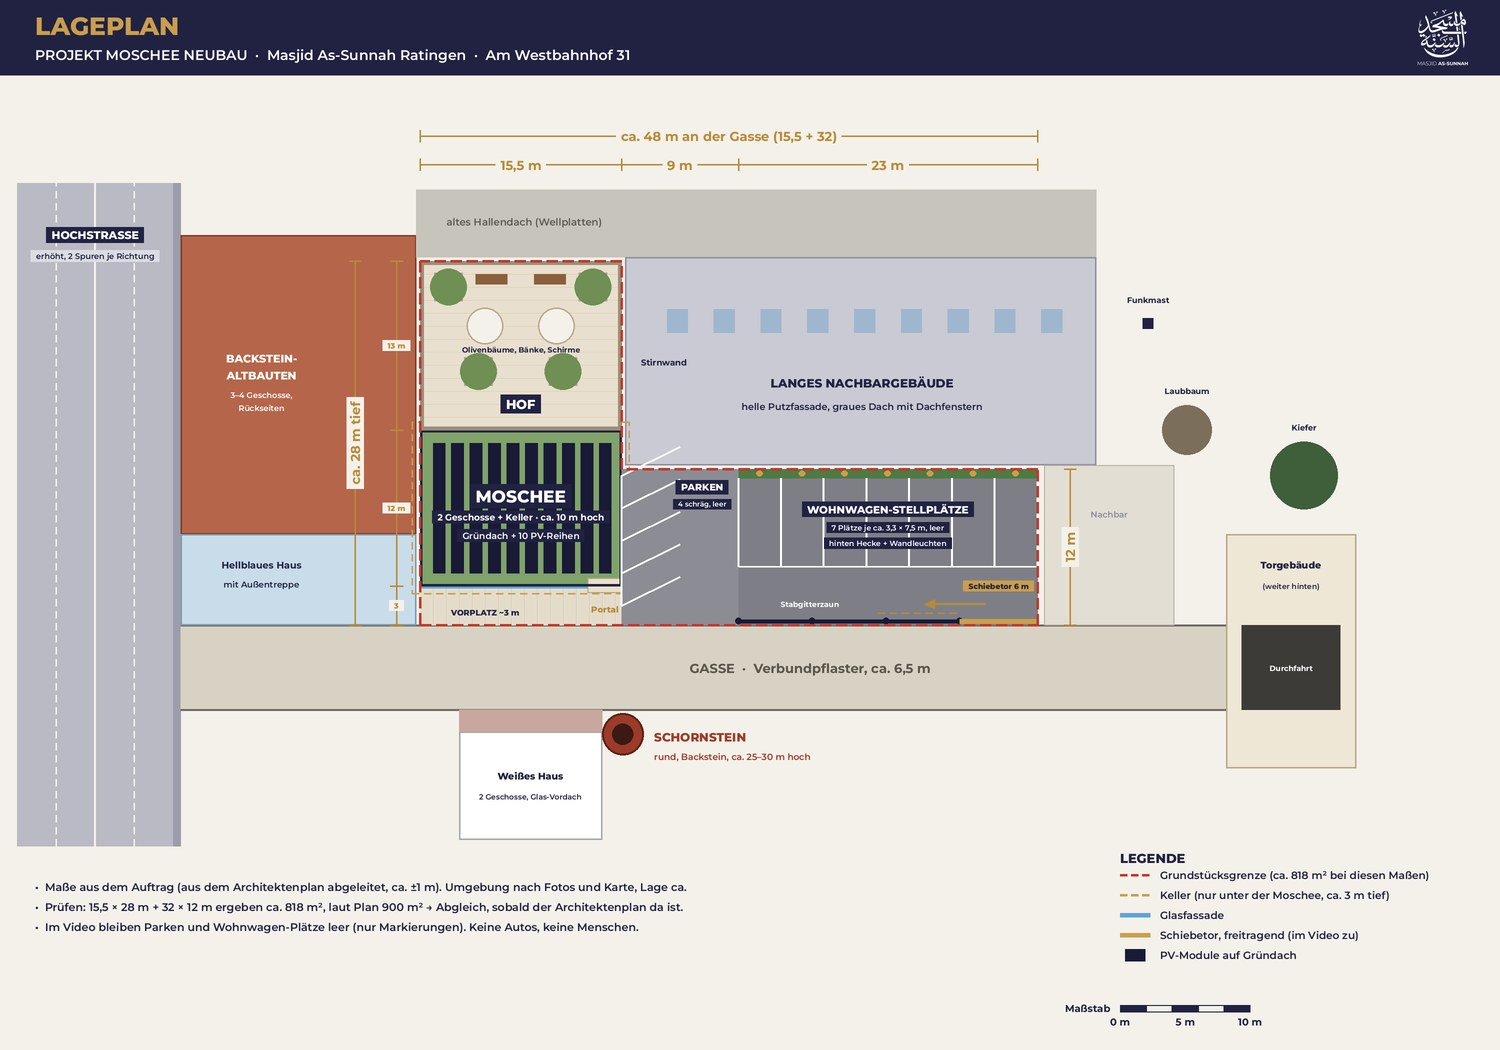
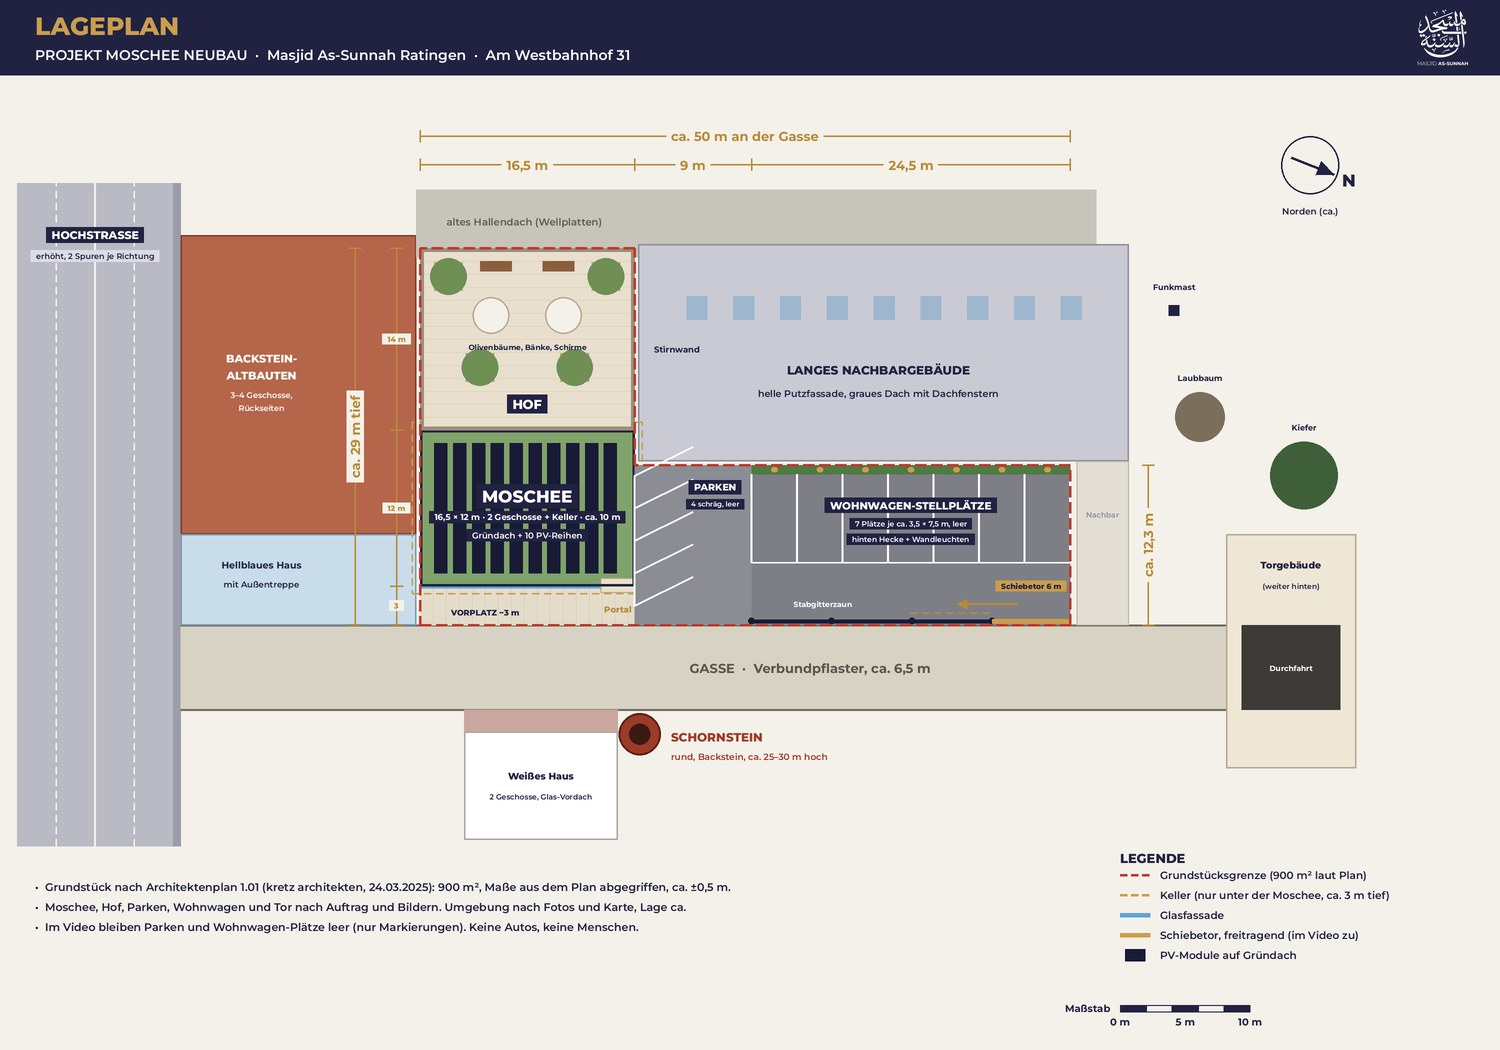
Neubau-Video: Lageplan nach Architektenplan (900 m², ca. 50 m), Nordpfeil
Claude-Session: https://claude.ai/code/session_01Y7mABu5w37GuCDDEdSAsrV

diff --git a/neubau-video/tools/lageplan.py b/neubau-video/tools/lageplan.py
@@ -2,7 +2,7 @@
 """Phase 1: Lageplan von oben mit Maßen und Beschriftung → out/phase1/lageplan.png (3000 × 2100).
 
 Koordinaten in Metern: x nach rechts entlang der Gasse (0 = linke Grundstücksecke an den Altbauten),
-y nach hinten (0 = Grundstücksgrenze an der Gasse). Maße aus AUFTRAG.md (ca. ±1 m), Umgebung nach Fotos/Karte (ca.).
+y nach hinten (0 = Grundstücksgrenze an der Gasse). Grundstück nach Architektenplan 1.01 (900 m²), Umgebung nach Fotos/Karte (ca.).
     python3 tools/lageplan.py
 """
 import math
@@ -106,117 +106,136 @@ text(-12.2, 4.6, 'Hellblaues Haus', 19, 700, NAVY); text(-12.2, 3.1, 'mit Außen
 # Hinten: Backsteinmauer mit Betonpfeilern, dahinter altes Hallendach
 rect(-0.3, 28.3, 52, 33.5, fill='#C7C4BB')
 text(8, 31, 'altes Hallendach (Wellplatten)', 20, 600, '#5E5B53')
-# Langes Nachbargebäude (rechts / hinter dem langen Teil)
-rect(15.8, 12.3, 52, 28.3, fill='#C9CAD3', outline='#8E8FA0', width=3)
+# Maße nach Architektenplan 1.01 (Konzept Ersatzbau, 24.03.2025), aus dem Plan-Foto abgegriffen (ca. ±0,5 m):
+# Grundstück 900 m², Länge an der Gasse ca. 50 m; tiefer Teil 16,5 × 29 m, langer Teil 33,5 × 12,3 m (16,5·29 + 33,5·12,3 ≈ 891 m²).
+L, BT, TT, LT = 50.0, 16.5, 29.0, 12.3     # Länge, Breite tiefer Teil, Tiefe tiefer Teil, Tiefe langer Teil
+VOR, MT = 3.0, 12.0                         # Vorplatz, Moschee-Tiefe → Hof = TT − VOR − MT = 14 m
+HOF0 = VOR + MT
+PK = BT + 9.0                               # Ende Parkfläche
+TOR = L - 6.0                               # Beginn Schiebetor
+# Langes Nachbargebäude (hinter dem langen Teil, Stirnwand zum Hof)
+rect(BT + 0.3, LT + 0.3, L + 4.5, TT + 0.3, fill='#C9CAD3', outline='#8E8FA0', width=3)
 for i in range(9):
-    rect(19 + i * 3.6, 22.5, 20.6 + i * 3.6, 24.3, fill='#9FB6CF')
-text(34, 18.6, 'LANGES NACHBARGEBÄUDE', 24, 800, NAVY)
-text(34, 16.8, 'helle Putzfassade, graues Dach mit Dachfenstern', 19, 600, NAVY)
-text(17, 20.2, 'Stirnwand', 17, 700, NAVY, anchor='lm')
+    rect(BT + 4 + i * 3.6, 23.5, BT + 5.6 + i * 3.6, 25.3, fill='#9FB6CF')
+text((BT + L) / 2 + 2, 19.6, 'LANGES NACHBARGEBÄUDE', 24, 800, NAVY)
+text((BT + L) / 2 + 2, 17.8, 'helle Putzfassade, graues Dach mit Dachfenstern', 19, 600, NAVY)
+text(BT + 1.5, 21.2, 'Stirnwand', 17, 700, NAVY, anchor='lm')
 # Rechts daneben
-rect(48, 0, 58, 12.3, fill='#E3DED3', outline='#B9B2A3', width=2)
-text(53, 8.5, 'Nachbar', 17, 600, GRAU)
-# Gegenüber: weißes Haus + Schornstein
-rect(3, -16.5, 14, -8.2, fill='#FFFFFF', outline='#A7A7A7', width=3)
-rect(3, -8.2, 14, -6.5, fill='#C9A79E')
-text(8.5, -11.6, 'Weißes Haus', 19, 800, NAVY); text(8.5, -13.2, '2 Geschosse, Glas-Vordach', 15, 600, NAVY)
-cx, cy, r = 15.6, -8.4, 1.6
+rect(L + 0.5, 0, L + 4.5, LT + 0.3, fill='#E3DED3', outline='#B9B2A3', width=2)
+text(L + 2.5, 8.5, 'Nachbar', 15, 600, GRAU)
+# Gegenüber: weißes Haus + Schornstein (gegenüber dem Portal)
+cx, cy, r = BT + 0.4, -8.4, 1.6
+rect(cx - 13.5, -16.5, cx - 1.7, -8.2, fill='#FFFFFF', outline='#A7A7A7', width=3)
+rect(cx - 13.5, -8.2, cx - 1.7, -6.5, fill='#C9A79E')
+text(cx - 7.6, -11.6, 'Weißes Haus', 19, 800, NAVY); text(cx - 7.6, -13.2, '2 Geschosse, Glas-Vordach', 15, 600, NAVY)
 d.ellipse([P(cx - r, cy + r), P(cx + r, cy - r)], fill='#9C3B2A', outline='#5E2015', width=4)
 d.ellipse([P(cx - 0.8, cy + 0.8), P(cx + 0.8, cy - 0.8)], fill='#3A1A12')
 text(cx + 2.4, -8.6, 'SCHORNSTEIN', 24, 800, '#9C3B2A', anchor='lm')
 text(cx + 2.4, -10.1, 'rund, Backstein, ca. 25–30 m hoch', 18, 600, '#9C3B2A', anchor='lm')
-# Torgebäude am Ende der Gasse
+# Torgebäude am Ende der Gasse (weiter hinten)
 rect(62, -11, 72, 7, fill='#EFE7D6', outline='#B7A98C', width=3)
 rect(63.2, -6.5, 70.8, 0, fill='#3D3B38')
 text(67, 4.6, 'Torgebäude', 19, 800, NAVY); text(67, 3.0, '(weiter hinten)', 15, 600, NAVY)
 text(67, -3.3, 'Durchfahrt', 15, 700, '#FFFFFF')
-for (tx, ty, tr, col) in ((68, 11.5, 2.6, '#3F5E3A'), (59, 15, 1.9, '#7B6E5B')):
+for (tx, ty, tr, col) in ((68, 11.5, 2.6, '#3F5E3A'), (60, 16, 1.9, '#7B6E5B')):
     d.ellipse([P(tx - tr, ty + tr), P(tx + tr, ty - tr)], fill=col)
-text(68, 15.2, 'Kiefer', 16, 700, NAVY); text(59, 18, 'Laubbaum', 16, 700, NAVY)
-d.rectangle([P(55.6, 23.6), P(56.4, 22.8)], fill=NAVY); text(56, 25, 'Funkmast', 16, 700, NAVY)
+text(68, 15.2, 'Kiefer', 16, 700, NAVY); text(60, 19, 'Laubbaum', 16, 700, NAVY)
+d.rectangle([P(57.6, 24.6), P(58.4, 23.8)], fill=NAVY); text(58, 26, 'Funkmast', 16, 700, NAVY)
 
 # ------------------------------------------------------------------ Grundstück
-GR = [(0, 0), (47.5, 0), (47.5, 12), (15.5, 12), (15.5, 28), (0, 28)]
+GR = [(0, 0), (L, 0), (L, LT), (BT, LT), (BT, TT), (0, TT)]
 # Vorplatz
-rect(0, 0, 15.5, 3, fill='#E4DCCB')
-for i in range(1, 16):
-    d.line([P(i, 0), P(i, 3)], fill='#D2C8B4', width=1)
+rect(0, 0, BT, VOR, fill='#E4DCCB')
+for i in range(1, int(BT) + 1):
+    d.line([P(i, 0), P(i, VOR)], fill='#D2C8B4', width=1)
 text(5.0, 0.95, 'VORPLATZ ~3 m', 16, 800, NAVY)
-# Moschee (Dach: Gründach + PV)
-rect(0, 3, 15.5, 15, fill='#7FA36A')
+# Moschee (Dach: Gründach + PV, 10 Reihen von der Glasfront nach hinten)
+rect(0, VOR, BT, HOF0, fill='#7FA36A')
 for i in range(10):
-    x = 1.0 + i * 1.42
-    rect(x, 4.0, x + 0.95, 14.0, fill=NAVY_D)
-d.line([P(0, 3), P(15.5, 3)], fill='#5FA3D6', width=9)          # Glasfassade
-rect(12.9, 2.5, 15.5, 3.6, fill='#E9E0CC', outline='#B5A786', width=2)   # Portal
-rect(0, 3, 15.5, 15, outline=NAVY, width=5)
-lab = [(7.75, 9.9, 'MOSCHEE', 34, 800, '#FFFFFF'), (7.75, 8.3, '2 Geschosse + Keller · ca. 10 m hoch', 18, 700, '#FFFFFF'),
-       (7.75, 6.9, 'Gründach + 10 PV-Reihen', 18, 600, '#FFFFFF')]
+    x = 1.0 + i * (BT - 2.0) / 10 + 0.1
+    rect(x, VOR + 1.0, x + 1.0, HOF0 - 1.0, fill=NAVY_D)
+d.line([P(0, VOR), P(BT, VOR)], fill='#5FA3D6', width=9)                 # Glasfassade
+rect(BT - 2.6, VOR - 0.5, BT, VOR + 0.6, fill='#E9E0CC', outline='#B5A786', width=2)   # Portal
+rect(0, VOR, BT, HOF0, outline=NAVY, width=5)
+lab = [(BT / 2, 9.9, 'MOSCHEE', 34, 800, '#FFFFFF'), (BT / 2, 8.3, '16,5 × 12 m · 2 Geschosse + Keller · ca. 10 m', 17, 700, '#FFFFFF'),
+       (BT / 2, 6.9, 'Gründach + 10 PV-Reihen', 17, 600, '#FFFFFF')]
 for x, y, s, sz, w, c in lab:
     tw = d.textlength(s, font=f(w, sz))
     d.rectangle([P(x, y)[0] - tw / 2 - 10, P(x, y)[1] - sz * 0.7, P(x, y)[0] + tw / 2 + 10, P(x, y)[1] + sz * 0.7], fill=NAVY)
     text(x, y, s, sz, w, c)
-text(14.2, 1.2, 'Portal', 17, 800, GOLD_D)
+text(BT - 1.3, 1.2, 'Portal', 17, 800, GOLD_D)
 # Keller (gestrichelt, nur unter der Moschee)
-for a, b in (((-0.6, 2.4), (16.1, 2.4)), ((16.1, 2.4), (16.1, 15.6)), ((16.1, 15.6), (-0.6, 15.6)), ((-0.6, 15.6), (-0.6, 2.4))):
+k0, k1, k2, k3 = -0.6, BT + 0.6, VOR - 0.6, HOF0 + 0.6
+for a, b in (((k0, k2), (k1, k2)), ((k1, k2), (k1, k3)), ((k1, k3), (k0, k3)), ((k0, k3), (k0, k2))):
     gestrichelt(P(*a), P(*b), GOLD, 3)
 # Hof
-rect(0, 15, 15.5, 28, fill='#E8DFCE')
-for i in range(1, 13):
-    d.line([P(0, 15 + i), P(15.5, 15 + i)], fill='#D9CDB6', width=1)
-rect(0, 15, 15.5, 28, outline='#9A8F7A', width=8)
-for (tx, ty) in ((4.5, 19.5), (11, 19.5), (2.2, 26), (13.3, 26)):
+rect(0, HOF0, BT, TT, fill='#E8DFCE')
+for i in range(1, int(TT - HOF0)):
+    d.line([P(0, HOF0 + i), P(BT, HOF0 + i)], fill='#D9CDB6', width=1)
+rect(0, HOF0, BT, TT, outline='#9A8F7A', width=8)
+for (tx, ty) in ((4.6, 19.8), (BT - 4.6, 19.8), (2.2, TT - 2.2), (BT - 2.2, TT - 2.2)):
     rect(tx - 1.1, ty - 1.1, tx + 1.1, ty + 1.1, fill='#B9A98C'); d.ellipse([P(tx - 1.4, ty + 1.4), P(tx + 1.4, ty - 1.4)], fill='#6F8F55')
-for (bx, by) in ((5.5, 26.6), (10, 26.6)):
+for (bx, by) in ((BT / 2 - 2.4, TT - 1.4), (BT / 2 + 2.4, TT - 1.4)):
     rect(bx - 1.2, by - 0.4, bx + 1.2, by + 0.4, fill='#8B5E3C')
-for (sx, sy) in ((5, 23), (10.5, 23)):
+for (sx, sy) in ((BT / 2 - 2.8, 23.8), (BT / 2 + 2.8, 23.8)):
     d.ellipse([P(sx - 1.4, sy + 1.4), P(sx + 1.4, sy - 1.4)], fill='#F4F1EA', outline='#B9A98C', width=3)
-box(7.75, 17.0, 'HOF', 26, 800); text(7.75, 21.2, 'Olivenbäume, Bänke, Schirme', 15, 700, NAVY)
+box(BT / 2, 17.0, 'HOF', 26, 800); text(BT / 2, 21.4, 'Olivenbäume, Bänke, Schirme', 15, 700, NAVY)
 # Parken (4 schräge Plätze)
-rect(15.5, 0, 24.5, 12, fill='#8C8D94')
+rect(BT, 0, PK, LT, fill='#8C8D94')
 for i in range(5):
     y = 1.5 + i * 2.5
-    d.line([P(15.5, y), P(20.0, y + 2.2)], fill='#FFFFFF', width=4)
-d.line([P(15.5, 1.5), P(15.5, 11.5)], fill='#FFFFFF', width=4)
-box(21.7, 10.6, 'PARKEN', 19, 800); box(21.7, 9.3, '4 schräg, leer', 14, 600)
-# Wohnwagen-Stellplätze
-rect(24.5, 0, 47.5, 12, fill='#7E7F86')
-rect(24.5, 11.3, 47.5, 12, fill='#4E7A43')
+    d.line([P(BT, y), P(BT + 4.5, y + 2.2)], fill='#FFFFFF', width=4)
+d.line([P(BT, 1.5), P(BT, 11.5)], fill='#FFFFFF', width=4)
+box(BT + 6.2, 10.6, 'PARKEN', 19, 800); box(BT + 6.2, 9.3, '4 schräg, leer', 14, 600)
+# Wohnwagen-Stellplätze (7 × 3,5 m)
+WB = (L - PK) / 7
+rect(PK, 0, L, LT, fill='#7E7F86')
+rect(PK, LT - 0.7, L, LT, fill='#4E7A43')
 for i in range(8):
-    x = 24.5 + i * 23 / 7
-    d.line([P(x, 4.5), P(x, 11.3)], fill='#FFFFFF', width=4)
-d.line([P(24.5, 4.5), P(47.5, 4.5)], fill='#FFFFFF', width=3)
+    x = PK + i * WB
+    d.line([P(x, LT - 7.5), P(x, LT - 0.7)], fill='#FFFFFF', width=4)
+d.line([P(PK, LT - 7.5), P(L, LT - 7.5)], fill='#FFFFFF', width=3)
 for i in range(7):
-    d.ellipse([P(26.1 + i * 23 / 7 - 0.25, 11.85), P(26.1 + i * 23 / 7 + 0.25, 11.45)], fill=GOLD)
-box(36, 8.9, 'WOHNWAGEN-STELLPLÄTZE', 21, 800); box(36, 7.5, '7 Plätze je ca. 3,3 × 7,5 m, leer', 15, 600); box(36, 6.3, 'hinten Hecke + Wandleuchten', 15, 600)
+    d.ellipse([P(PK + (i + 0.5) * WB - 0.25, LT - 0.15), P(PK + (i + 0.5) * WB + 0.25, LT - 0.55)], fill=GOLD)
+mx = (PK + L) / 2
+box(mx, 9.2, 'WOHNWAGEN-STELLPLÄTZE', 21, 800); box(mx, 7.8, '7 Plätze je ca. 3,5 × 7,5 m, leer', 15, 600); box(mx, 6.6, 'hinten Hecke + Wandleuchten', 15, 600)
 # Zaun + Schiebetor (rechts, freitragend, rollt nach links hinter das feste Feld)
-d.line([P(24.5, 0.3), P(41.5, 0.3)], fill=NAVY_D, width=8)
+d.line([P(PK, 0.3), P(TOR, 0.3)], fill=NAVY_D, width=8)
 for i in range(4):
-    x = 24.5 + i * 17 / 3
+    x = PK + i * (TOR - PK) / 3
     d.ellipse([P(x - 0.25, 0.55), P(x + 0.25, 0.05)], fill=NAVY_D)
-d.line([P(41.5, 0.3), P(47.5, 0.3)], fill=GOLD, width=10)
-gestrichelt(P(35.2, 0.9), P(41.5, 0.9), GOLD_D, 3)
-d.line([P(43.5, 1.6), P(39.5, 1.6)], fill=GOLD_D, width=4)
-d.polygon([P(38.8, 1.6), P(39.6, 2.0), P(39.6, 1.2)], fill=GOLD_D)
-box(44.5, 3.0, 'Schiebetor 6 m', 15, 800, NAVY, GOLD)
-text(30, 1.6, 'Stabgitterzaun', 15, 700, '#FFFFFF')
+d.line([P(TOR, 0.3), P(L, 0.3)], fill=GOLD, width=10)
+gestrichelt(P(TOR - 6.3, 0.9), P(TOR, 0.9), GOLD_D, 3)
+d.line([P(TOR + 2, 1.6), P(TOR - 2, 1.6)], fill=GOLD_D, width=4)
+d.polygon([P(TOR - 2.7, 1.6), P(TOR - 1.9, 2.0), P(TOR - 1.9, 1.2)], fill=GOLD_D)
+box(TOR + 3, 3.0, 'Schiebetor 6 m', 15, 800, NAVY, GOLD)
+text(PK + 5.5, 1.6, 'Stabgitterzaun', 15, 700, '#FFFFFF')
 # Grundstücksgrenze
 for a, b in zip(GR, GR[1:] + GR[:1]):
     gestrichelt(P(*a), P(*b), '#C0392B', 5, 22, 10)
 
 # ------------------------------------------------------------------ Maße
-mass_h(0, 47.5, 37.6, 'ca. 48 m an der Gasse (15,5 + 32)')
-mass_h(0, 15.5, 35.4, '15,5 m')
-mass_h(15.5, 24.5, 35.4, '9 m'); mass_h(24.5, 47.5, 35.4, '23 m')
-mass_v(-5.0, 0, 28, 'ca. 28 m tief')
-mass_v(50.0, 0, 12, '12 m')
-
-# kleine Teilmaße als Text
-d.line([P(-1.8, 0), P(-1.8, 28)], fill=GOLD_D, width=3)
-for yy in (0, 3, 15, 28):
+mass_h(0, L, 37.6, 'ca. 50 m an der Gasse')
+mass_h(0, BT, 35.4, '16,5 m')
+mass_h(BT, PK, 35.4, '9 m'); mass_h(PK, L, 35.4, '24,5 m')
+mass_v(-5.0, 0, TT, 'ca. 29 m tief')
+mass_v(L + 6.0, 0, LT, 'ca. 12,3 m')
+d.line([P(-1.8, 0), P(-1.8, TT)], fill=GOLD_D, width=3)
+for yy in (0, VOR, HOF0, TT):
     d.line([P(-2.3, yy), P(-1.3, yy)], fill=GOLD_D, width=3)
-for yy, s_ in ((1.5, '3'), (9.0, '12 m'), (21.5, '13 m')):
+for yy, s_ in ((1.5, '3'), (9.0, '12 m'), (22.0, '14 m')):
     box(-1.8, yy, s_, 15, 800, GOLD_D, PAPIER)
+
+# Nordpfeil (nach dem Lageplan im Architektenplan, ca.): Gasse läuft etwa nach NNW
+nx, ny = 2620, 330
+ang = math.radians(-22)          # Nord zeigt ca. 22° unter die Gassenrichtung (+x), zur Gasse hin
+ux, uy = math.cos(ang), -math.sin(ang)
+d.ellipse([nx - 58, ny - 58, nx + 58, ny + 58], outline=NAVY, width=3)
+tip = (nx + ux * 52, ny + uy * 52); tail = (nx - ux * 40, ny - uy * 40)
+d.line([tail, tip], fill=NAVY, width=5)
+d.polygon([tip, (nx + ux * 18 - uy * 15, ny + uy * 18 + ux * 15), (nx + ux * 18 + uy * 15, ny + uy * 18 - ux * 15)], fill=NAVY)
+d.text((nx + ux * 84, ny + uy * 84), 'N', font=f(800, 34), fill=NAVY, anchor='mm')
+d.text((nx, ny + 92), 'Norden (ca.)', font=f(600, 18), fill=NAVY, anchor='mm')
 
 # ------------------------------------------------------------------ Kopf, Legende, Maßstab, Hinweise
 d.rectangle([0, 0, W, 150], fill=NAVY)
@@ -239,7 +258,7 @@ d.text((bx - 20, by + 7), 'Maßstab', font=f(700, 20), fill=NAVY, anchor='rm')
 # Legende
 lx, ly = 2240, 1700
 d.text((lx, ly), 'LEGENDE', font=f(800, 26), fill=NAVY)
-items = [('#C0392B', 'Grundstücksgrenze (ca. 818 m² bei diesen Maßen)', 'strich'), (GOLD, 'Keller (nur unter der Moschee, ca. 3 m tief)', 'strich'),
+items = [('#C0392B', 'Grundstücksgrenze (900 m² laut Plan)', 'strich'), (GOLD, 'Keller (nur unter der Moschee, ca. 3 m tief)', 'strich'),
          ('#5FA3D6', 'Glasfassade', 'linie'), (GOLD, 'Schiebetor, freitragend (im Video zu)', 'linie'), (NAVY_D, 'PV-Module auf Gründach', 'kasten')]
 for i, (c, s, art) in enumerate(items):
     y = ly + 50 + i * 40
@@ -253,8 +272,8 @@ for i, (c, s, art) in enumerate(items):
 
 # Hinweise
 hx, hy = 70, 1760
-hinweise = ['Maße aus dem Auftrag (aus dem Architektenplan abgeleitet, ca. ±1 m). Umgebung nach Fotos und Karte, Lage ca.',
-            'Prüfen: 15,5 × 28 m + 32 × 12 m ergeben ca. 818 m², laut Plan 900 m² → Abgleich, sobald der Architektenplan da ist.',
+hinweise = ['Grundstück nach Architektenplan 1.01 (kretz architekten, 24.03.2025): 900 m², Maße aus dem Plan abgegriffen, ca. ±0,5 m.',
+            'Moschee, Hof, Parken, Wohnwagen und Tor nach Auftrag und Bildern. Umgebung nach Fotos und Karte, Lage ca.',
             'Im Video bleiben Parken und Wohnwagen-Plätze leer (nur Markierungen). Keine Autos, keine Menschen.']
 for i, s in enumerate(hinweise):
     d.text((hx, hy + i * 40), '•  ' + s, font=f(600, 22), fill=NAVY)

diff --git a/neubau-video/PLAN.md b/neubau-video/PLAN.md
@@ -14,7 +14,7 @@ Auftrag vollständig in `AUFTRAG.md` (verbindlich, zusammen mit Aymans Korrektur
 | Phase | Inhalt | Stand |
 |---|---|---|
 | 0 | Blender-Verbindung, Datei anlegen, Unterlagen sichten, offene Punkte abfragen | **läuft (19.11.)**: Ordner `neubau-video/` + `AUFTRAG.md` angelegt. Unterlagen gesichtet (`docs/phase0-sichtung.md`): 4 Fotos, 9 Bilder/Entwürfe, 2 Karten. **Fehlt:** Architektenplan; Verbindung zum Mac (Ordner noch nicht freigegeben). |
-| 1 | Lageplan von oben mit Maßen | Vorschau `out/phase1/lageplan.png` (`python3 tools/lageplan.py`, Schrift Montserrat in `assets/fonts/`, OFL) → **wartet auf Freigabe**. Hinweis: Maße aus dem Auftrag ergeben ca. 818 m² statt 900 m² → mit Architektenplan abgleichen. |
+| 1 | Lageplan von oben mit Maßen | Vorschau `out/phase1/lageplan.png` (`python3 tools/lageplan.py`, Montserrat in `assets/fonts/`, OFL). **Maße nach Architektenplan** (`assets/ref/neubau/plan/architektenplan_1-01_konzept_ersatzbau.jpg`, Foto 1206 px, Maße per Pixel abgegriffen, Maßstab über BF 745 m² = 28,4 px/m in 4×-Ausschnitt): Grundstück 900 m², ca. 50 m an der Gasse; tiefer Teil 16,5 × 29 m, langer Teil 33,5 × 12,3 m; Moschee 16,5 × 12 m, Vorplatz 3 m, Hof 14 m tief, Parken 9 m, Wohnwagen 24,5 m (7 × 3,5 m), Schiebetor 6 m. Norden ca. 22° unter der Gassenrichtung (Gasse läuft nach NNW, Grundstück liegt westlich der Gasse) → **wartet auf Freigabe** |
 | 2 | Umgebung in Blender + Vergleich mit Fotos | offen |
 | 3 | Moschee Endzustand + Keller + Vergleichsblatt | offen |
 | 4 | Animatic 360×640 (Varianten A/B) | offen |
